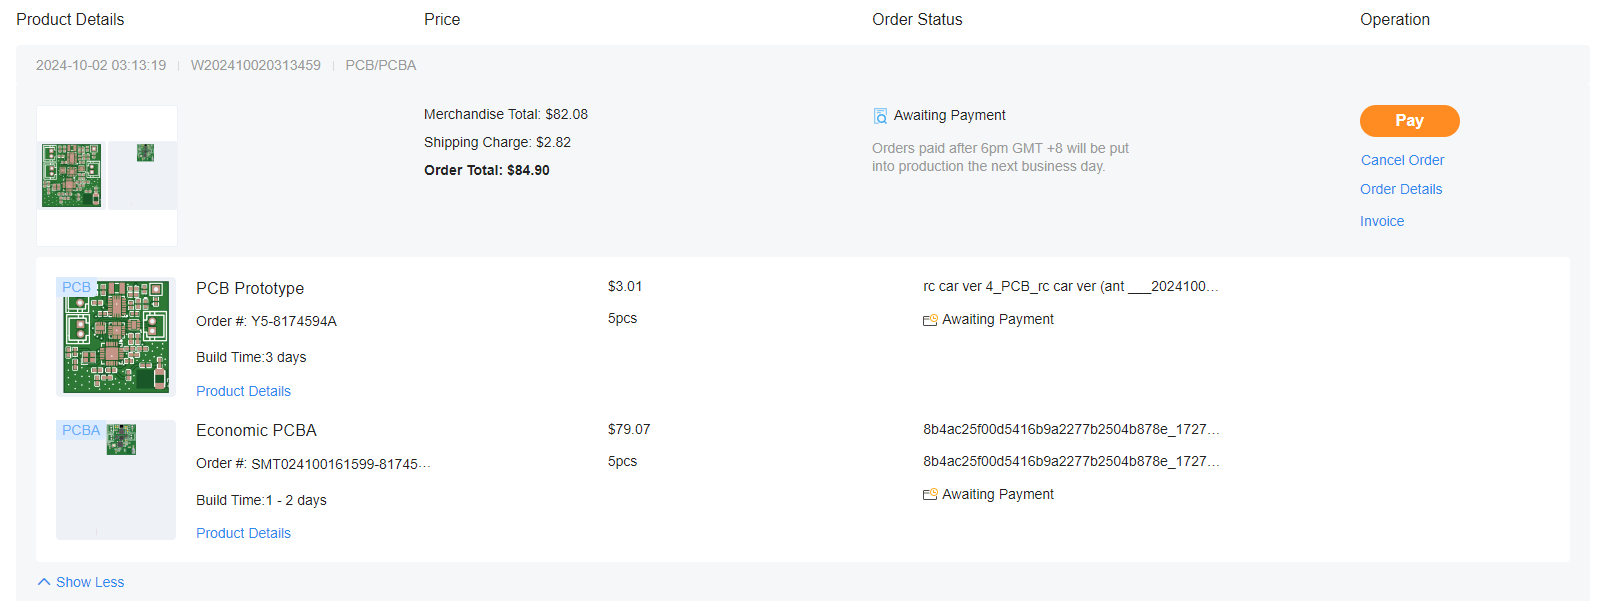
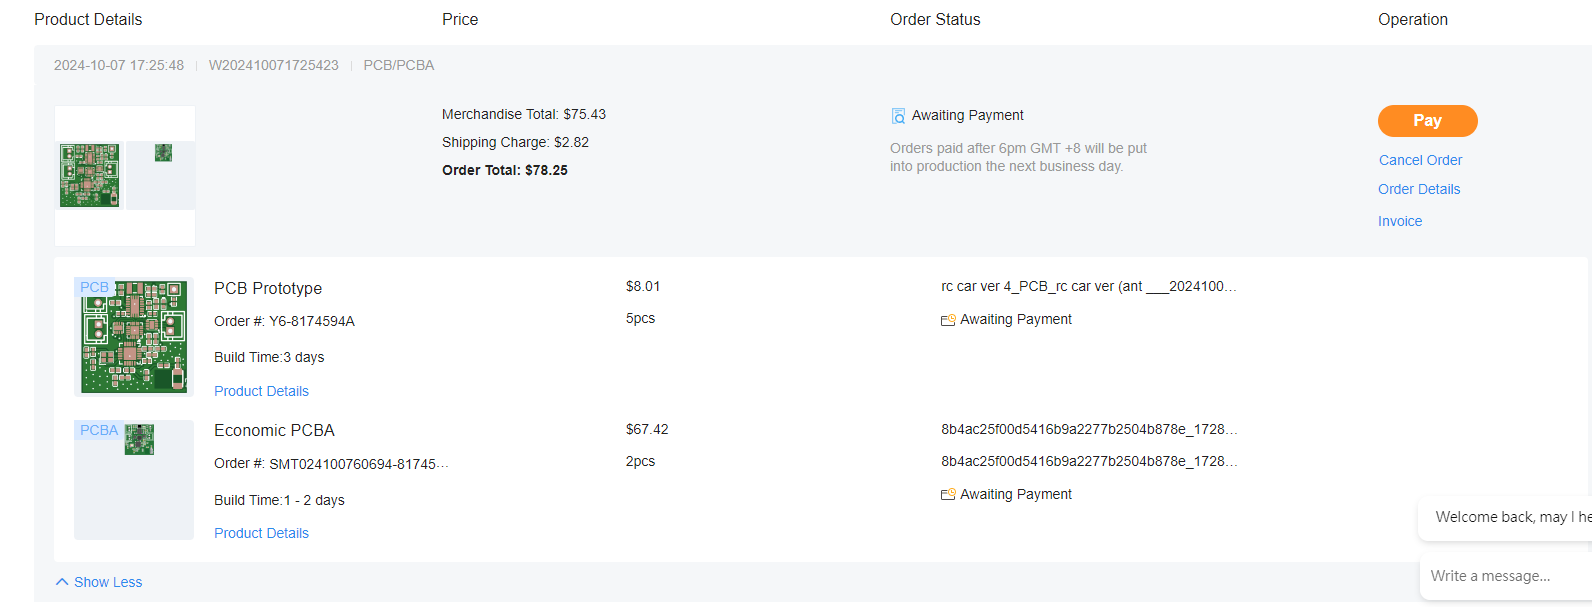
Changes to components and PCBA quantities ( resolved conflict ) (#1211)
* Add files via upload

* Update README.md

diff --git a/projects/rc_car_ver4/README.md b/projects/rc_car_ver4/README.md
@@ -11,7 +11,7 @@ This is a pcb for a remote control car, featuring the Attiny1616 as the main con
 It includes a battery interface (3.7V), two motor interfaces, and a USB-C port. 
 When power is supplied via USB or battery, a buck converter reduces the voltage to 3.3V to power the Attiny1616, motor driver and the motors.
 <!-- How much is it going to cost? -->
-According to the quote from JLCPCB, it costs $84.9.
+According to the quote from JLCPCB, it costs $78.25.
 <!-- Tell us a little bit about your design process. What were some challenges? What helped? ***Totally optional*** -->
 The forth version of the remote control car PCB. 
 The goal was to make the PCB as small and inexpensive as possible. 
